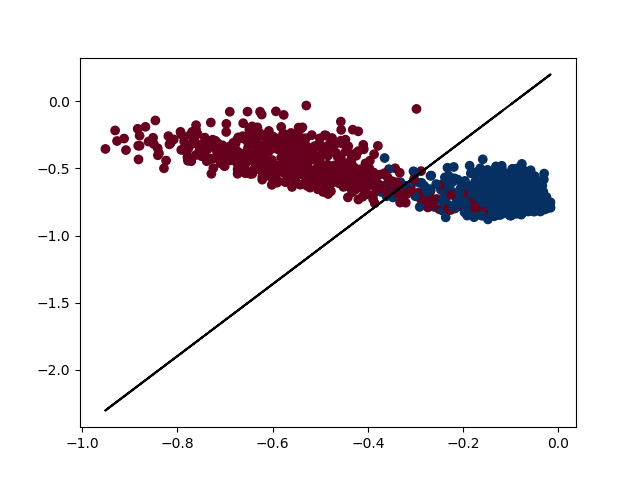
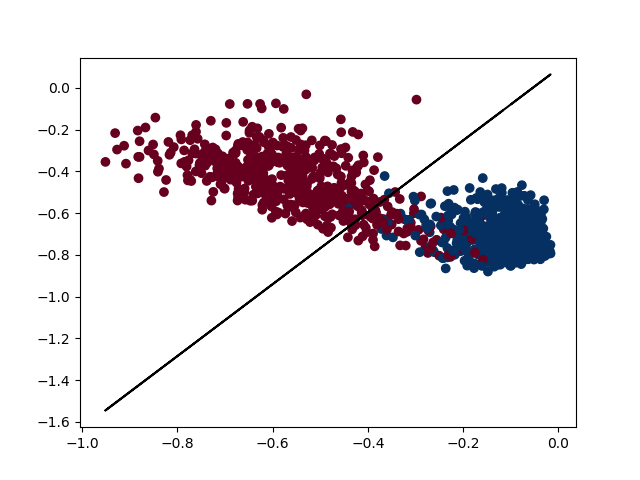
all questions finished

diff --git a/main.py b/main.py
@@ -116,15 +116,16 @@ def main():
     print(logisticR_classifier.score(train_X, train_y))
     #preds_proba = logisticR_classifier.predict_proba(train_X)
 
+    logisticR_classifier.fit_SGD(train_X, train_y)
+    print('SGD')
+    print(logisticR_classifier.get_params())
+    print(logisticR_classifier.score(train_X, train_y))
+
     logisticR_classifier.fit_BGD(train_X, train_y, data_shape)
     print('BGD')
     print(logisticR_classifier.get_params())
     print(logisticR_classifier.score(train_X, train_y))
 
-    logisticR_classifier.fit_SGD(train_X, train_y)
-    print('SGD')
-    print(logisticR_classifier.get_params())
-    print(logisticR_classifier.score(train_X, train_y))
     '''
     logisticR_classifier.fit_BGD(train_X, train_y, 1)
     print('BGD, size = 1')
@@ -258,11 +259,6 @@ def main():
     print(logisticR_classifier_multiclass.score(train_X, train_y))
     ### END YOUR CODE
 
-
-
-
-
-
     train_X = train_X_all[train_idx]
     train_y = train_y_all[train_idx]
     train_X = train_X[0:1350]
@@ -277,8 +273,8 @@ def main():
     ##### Hint: we suggest to set the convergence condition as "np.linalg.norm(gradients*1./batch_size) < 0.0005" or max_iter=10000:
     ### YOUR CODE HERE
     logisticR_classifier = logistic_regression(learning_rate=0.5, max_iter=10000)
-    logisticR_classifier.fit_SGD(train_X, train_y)
-    print('SGD')
+    logisticR_classifier.fit_BGD(train_X, train_y,100)
+    print('BGD')
     print(logisticR_classifier.get_params())
     print(logisticR_classifier.score(train_X, train_y))
     ### END YOUR CODE
@@ -293,7 +289,38 @@ def main():
     Then, for what leaning rates, we can obtain w_1-w_2= w for all training steps so that these two models are equivalent for each training step. 
     '''
     ### YOUR CODE HERE
+    train_X = train_X_all[train_idx]
+    train_y = train_y_all[train_idx]
+    train_X = train_X[0:1350]
+    train_y = train_y[0:1350]
+    valid_X = valid_X_all[val_idx]
+    valid_y = valid_y_all[val_idx]
+    train_y[np.where(train_y==2)] = 0
+    valid_y[np.where(valid_y==2)] = 0
+    print('-----------softmax -----------')
+    for iters in [1000,2000,3000,4000]:
+        logisticR_classifier_multiclass = logistic_regression_multiclass(learning_rate=0.5, max_iter = iters, k=2)
+        logisticR_classifier_multiclass.fit_BGD(train_X, train_y, 100)
+        W_out = logisticR_classifier_multiclass.get_params()
+        W1_2 = W_out[:,0]-W_out[:,1]
+        print(W1_2)
 
+
+    train_X = train_X_all[train_idx]
+    train_y = train_y_all[train_idx]
+    train_X = train_X[0:1350]
+    train_y = train_y[0:1350]
+    valid_X = valid_X_all[val_idx]
+    valid_y = valid_y_all[val_idx]
+    #####       set lables to -1 and 1 for sigmoid classifer
+    train_y[np.where(train_y==2)] = -1
+    valid_y[np.where(valid_y==2)] = -1
+
+    print('-----------logistic -----------')
+    for iters in [1000,2000,3000,4000]:
+        logisticR_classifier = logistic_regression(learning_rate=1, max_iter=iters)
+        logisticR_classifier.fit_BGD(train_X, train_y,100)
+        print(logisticR_classifier.get_params())
     ### END YOUR CODE
 
 # ------------End------------

diff --git a/LogisticRegression.py b/LogisticRegression.py
@@ -23,7 +23,7 @@ class logistic_regression(object):
         n_samples, n_features = X.shape
 
         ### YOUR CODE HERE
-        self.assign_weights(np.random.random(n_features))
+        self.assign_weights(np.zeros(n_features))
         for i in range(self.max_iter):
             w_add = np.zeros(n_features)
             for j in range(n_samples):
@@ -46,7 +46,7 @@ class logistic_regression(object):
         """
         ### YOUR CODE HERE
         n_samples, n_features = X.shape
-        self.assign_weights(np.random.random(n_features))
+        self.assign_weights(np.zeros(n_features))
         for i in range(self.max_iter):
             w_add = np.zeros(n_features)
 
@@ -74,7 +74,7 @@ class logistic_regression(object):
         """
         ### YOUR CODE HERE
         n_samples, n_features = X.shape
-        self.assign_weights(np.random.random(n_features))
+        self.assign_weights(np.zeros(n_features))
         for i in range(self.max_iter):
             j = np.random.randint(n_samples)
             w_add = self.learning_rate * (- self._gradient(X[j],y[j]))
